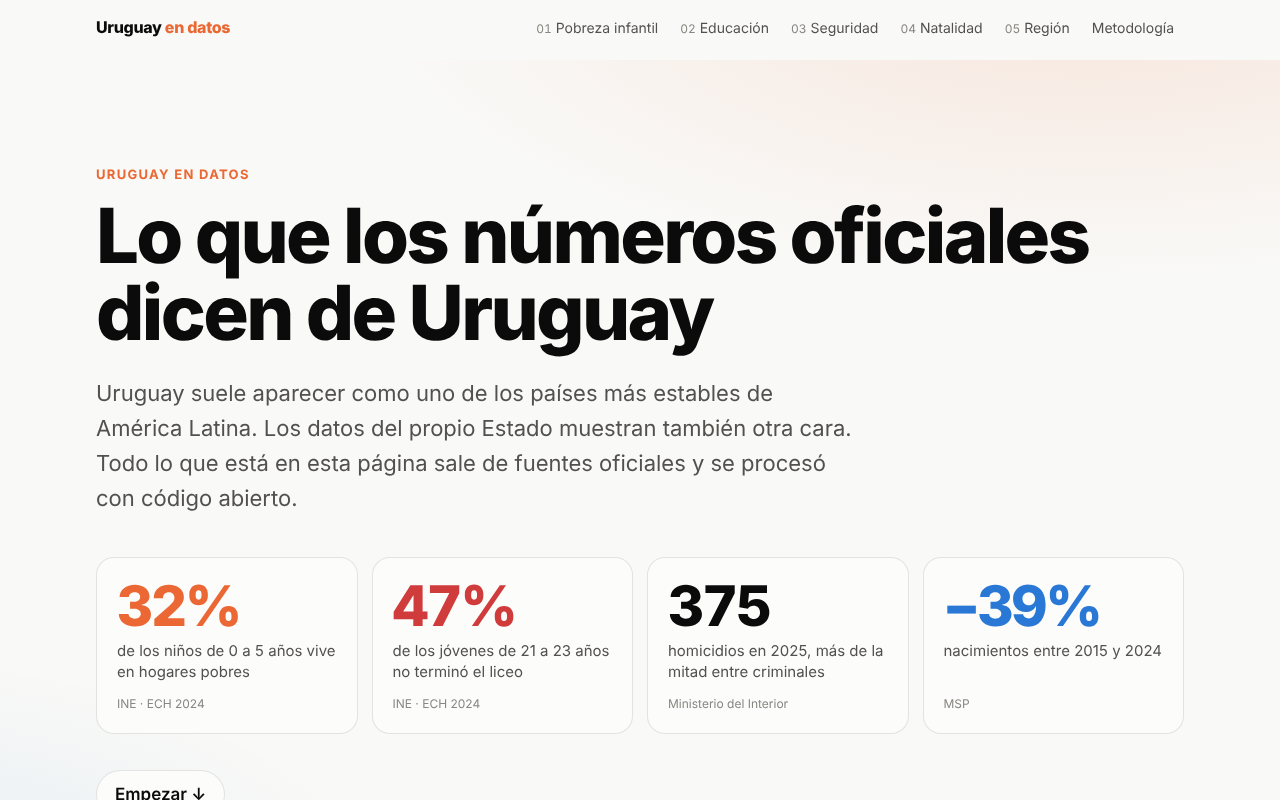
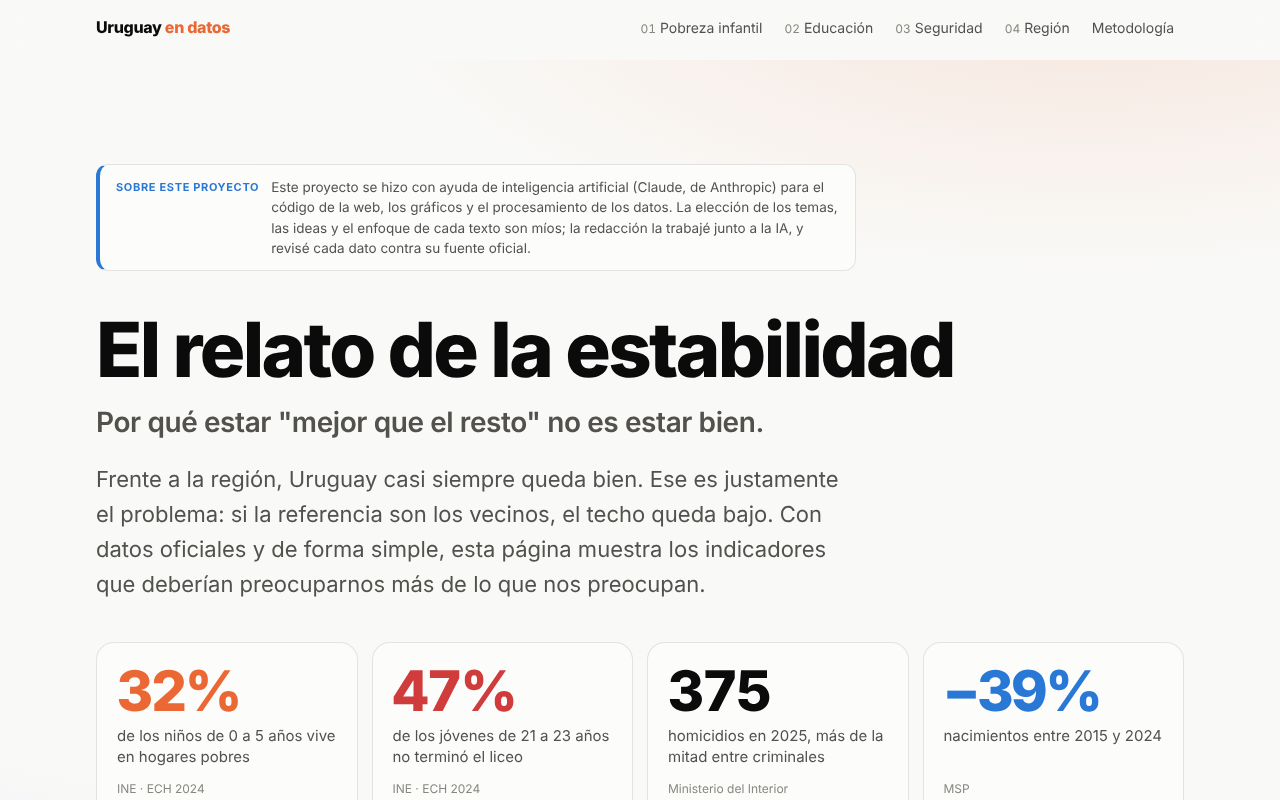
Add files via upload

Changed region(s): [[0.0625, 0.1875, 0.875, 1.0], [0.7188, 0.7188, 0.9062, 0.9375], [0.4375, 0.0312, 0.75, 0.0625]]

diff --git a/index.html b/index.html
@@ -3,9 +3,9 @@
 <head>
 <meta charset="utf-8">
 <meta name="viewport" content="width=device-width, initial-scale=1">
-<title>Uruguay en datos</title>
+<title>El relato de la estabilidad · Uruguay en datos</title>
 <meta name="description" content="Lo que los datos oficiales muestran sobre los problemas de Uruguay: pobreza infantil, educación, homicidios, cárceles, natalidad y su comparación con la región.">
-<meta property="og:title" content="Uruguay en datos">
+<meta property="og:title" content="El relato de la estabilidad · Uruguay en datos">
 <meta property="og:description" content="Pobreza infantil, educación, seguridad y natalidad en Uruguay, con datos oficiales y código abierto.">
 <link rel="preconnect" href="https://fonts.googleapis.com">
 <link rel="preconnect" href="https://fonts.gstatic.com" crossorigin>
@@ -22,8 +22,7 @@
       <a href="#pobreza" data-ch="pobreza"><span>01</span> Pobreza infantil</a>
       <a href="#educacion" data-ch="educacion"><span>02</span> Educación</a>
       <a href="#seguridad" data-ch="seguridad"><span>03</span> Seguridad</a>
-      <a href="#natalidad" data-ch="natalidad"><span>04</span> Natalidad</a>
-      <a href="#region" data-ch="region"><span>05</span> Región</a>
+      <a href="#region" data-ch="region"><span>04</span> Región</a>
       <a href="#metodologia" data-ch="metodologia" class="nav-method">Metodología</a>
     </nav>
   </div>
@@ -33,9 +32,13 @@
 <!-- ============ PORTADA ============ -->
 <section class="hero" id="inicio">
   <div class="hero-in">
-    <p class="kicker">Uruguay en datos</p>
-    <h1 class="site-title">Lo que los números oficiales dicen de Uruguay</h1>
-    <p class="lede">Uruguay suele aparecer como uno de los países más estables de América Latina. Los datos del propio Estado muestran también otra cara. Todo lo que está en esta página sale de fuentes oficiales y se procesó con código abierto.</p>
+    <aside class="ai-note" role="note">
+      <span class="ai-badge">Sobre este proyecto</span>
+      <p>Este proyecto se hizo con ayuda de inteligencia artificial (Claude, de Anthropic) para el código de la web, los gráficos y el procesamiento de los datos. La elección de los temas, las ideas y el enfoque de cada texto son míos; la redacción la trabajé junto a la IA, y revisé cada dato contra su fuente oficial.</p>
+    </aside>
+    <h1 class="site-title">El relato de la estabilidad</h1>
+    <p class="site-sub">Por qué estar "mejor que el resto" no es estar bien.</p>
+    <p class="lede">Frente a la región, Uruguay casi siempre queda bien. Ese es justamente el problema: si la referencia son los vecinos, el techo queda bajo. Con datos oficiales y de forma simple, esta página muestra los indicadores que deberían preocuparnos más de lo que nos preocupan.</p>
     <div class="hero-stats">
       <a class="hstat reveal" href="#pobreza">
         <span class="hv"><span data-countup="32">32</span>%</span>
@@ -186,6 +189,18 @@
       <p class="fuente" data-fuente="ech2024" data-detalle="desocupados / (ocupados + desocupados), POBPCOAC, ponderado con W_ANO"></p>
     </div>
   </section>
+
+  <section class="reveal" id="natalidad">
+    <h3 class="sec-title">Cada vez menos jóvenes</h3>
+    <p>En 2015 nacieron 48.926 bebés en Uruguay y en 2024 nacieron 29.899: un 39% menos, la cifra más baja desde fines del siglo XIX. Con cada vez menos jóvenes, que casi la mitad no termine el liceo pesa todavía más.</p>
+    <div class="card">
+      <div class="card-head">
+        <h4>Nacimientos por año</h4>
+      </div>
+      <div id="chart-nac" class="chart"></div>
+      <p class="fuente" data-fuente="msp_nacimientos" data-detalle="2024: dato preliminar"></p>
+    </div>
+  </section>
 </article>
 
 <!-- ============ 03 SEGURIDAD ============ -->
@@ -227,36 +242,26 @@
   </section>
 </article>
 
-<!-- ============ 04 NATALIDAD ============ -->
-<article id="natalidad" class="chapter">
-  <header class="chapter-cover reveal">
-    <p class="chapter-num">04 · Natalidad</p>
-    <h2 class="chapter-title">En diez años, los nacimientos cayeron casi 40%.</h2>
-    <p class="lede">En 2015 nacieron 48.926 bebés en Uruguay y en 2024 nacieron 29.899, la cifra más baja desde fines del siglo XIX. Con menos jóvenes, que cada uno termine el liceo y consiga trabajo importa todavía más.</p>
-  </header>
-
-  <section class="reveal">
-    <div class="card">
-      <div class="card-head">
-        <h4>Nacimientos por año</h4>
-      </div>
-      <div id="chart-nac" class="chart"></div>
-      <p class="fuente" data-fuente="msp_nacimientos" data-detalle="2024: dato preliminar"></p>
-    </div>
-  </section>
-</article>
-
-<!-- ============ 05 COMPARACION REGIONAL ============ -->
+<!-- ============ 04 COMPARACION REGIONAL ============ -->
 <article id="region" class="chapter">
   <header class="chapter-cover reveal">
-    <p class="chapter-num">05 · Uruguay frente a la región</p>
-    <h2 class="chapter-title">Mejor que la región no es lo mismo que estar bien.</h2>
-    <p class="lede">Uruguay suele compararse con América Latina, y en varios indicadores sale primero. Pero al medir a todos los países con la misma fuente, aparecen indicadores donde Uruguay está último del grupo. Y en cuatro de los cinco indicadores que tienen dato de la OCDE, queda por detrás.</p>
+    <p class="chapter-num">04 · Uruguay frente a la región</p>
+    <h2 class="chapter-title">Primeros en la región, últimos en lo que viene.</h2>
+    <p class="lede">Medidos con la misma fuente, Uruguay lidera la región en ingreso por persona y en igualdad. Pero queda último en desempleo juvenil y en adultos con secundaria completa, dos indicadores que hablan del futuro. Y frente a la OCDE, queda por detrás en cuatro de los cinco indicadores con dato.</p>
   </header>
 
   <section class="semaforo-wrap reveal">
-    <h3 class="sec-title">El semáforo de Uruguay</h3>
-    <p>Cada tarjeta compara a Uruguay con 6 países de la región: Argentina, Brasil, Chile, Paraguay, Costa Rica y México. <span class="pill pill-good">● Verde</span> estamos entre los 2 mejores, <span class="pill pill-warn">● Amarillo</span> en el medio, <span class="pill pill-bad">● Rojo</span> entre los 2 peores. Tocá una tarjeta para ver el detalle.</p>
+    <div class="sema-head">
+      <div>
+        <h3 class="sec-title">El semáforo de Uruguay</h3>
+        <p>Cada tarjeta compara a Uruguay con 6 países de la región: Argentina, Brasil, Chile, Paraguay, Costa Rica y México. Tocá una tarjeta para ver el detalle.</p>
+      </div>
+      <ul class="sema-legend" aria-label="Qué significa cada color">
+        <li><span class="dot dot-good"></span><b>Verde</b><span>Entre los 2 mejores de 7</span></li>
+        <li><span class="dot dot-warn"></span><b>Amarillo</b><span>En el medio (3º a 5º)</span></li>
+        <li><span class="dot dot-bad"></span><b>Rojo</b><span>Entre los 2 peores de 7</span></li>
+      </ul>
+    </div>
     <p class="score" id="score"></p>
     <div class="semaforo" id="semaforo"></div>
     <p class="fuente" data-fuente="bm_wdi" data-detalle="último dato disponible de cada país"></p>
@@ -267,6 +272,7 @@
     <p>Elegí un indicador. A la izquierda está el último dato de cada país y a la derecha la evolución desde el año 2000. Elegí también un país para compararlo directo con Uruguay.</p>
     <div class="picker" id="ind-picker" role="radiogroup" aria-label="Indicador"></div>
     <p class="verdict" id="verdict"></p>
+    <div class="que-mide" id="que-mide"></div>
     <div class="cmp-grid">
       <div class="card">
         <div class="card-head"><h4 id="rank-title">Último dato</h4></div>
@@ -309,7 +315,7 @@
         <tr><td>Pobreza infantil</td><td>INE, ECH 2024 y 2025 (microdatos, ~55.000 personas por año)</td><td>% de personas en hogares bajo la línea de pobreza (<code>pobre17</code>), por edad y departamento, ponderado con <code>W_ANO</code></td><td>La ECH 2025 es de implantación: la comparación con 2024 es indicativa. Muestras chicas por departamento.</td><td><code>01_pobreza</code></td></tr>
         <tr><td>Educación</td><td>INE, ECH 2024</td><td>Egreso de media superior (bachillerato en liceo o UTU, o terciaria), jóvenes que no estudian ni trabajan, desempleo según educación</td><td>Validado contra el INEEd (51,6% en 2023; acá 53,2% en 2024). Departamentos con muestra chica.</td><td><code>02_educacion</code></td></tr>
         <tr><td>Homicidios y cárceles</td><td>Ministerio del Interior, datos abiertos</td><td>Homicidios por año y motivo aparente (una fila por víctima); personas presas en diciembre de cada año</td><td>El Ministerio reclasifica casos, así que puede haber diferencias de pocas unidades con los informes anuales.</td><td><code>03_seguridad</code></td></tr>
-        <tr><td>Natalidad</td><td>MSP, informes de estadísticas vitales</td><td>Nacimientos por año, 2015–2024</td><td>No hay un dataset abierto actualizado: las cifras se transcribieron del informe oficial, con la fuente en cada fila. 2024 es preliminar.</td><td><code>04_demografia</code></td></tr>
+        <tr><td>Educación: natalidad</td><td>MSP, informes de estadísticas vitales</td><td>Nacimientos por año, 2015–2024</td><td>No hay un dataset abierto actualizado: las cifras se transcribieron del informe oficial, con la fuente en cada fila. 2024 es preliminar.</td><td><code>04_demografia</code></td></tr>
         <tr><td>Región</td><td>Banco Mundial (WDI), con datos del FMI, la OIT, la UNODC y la UNESCO</td><td>9 indicadores comparables para 7 países, América Latina y la OCDE; semáforo según el puesto</td><td>El desempleo es la estimación modelada de la OIT. La pobreza usa la línea internacional de US$ 8,30, no la oficial uruguaya.</td><td><code>05_comparacion_regional</code></td></tr>
       </tbody>
     </table>
